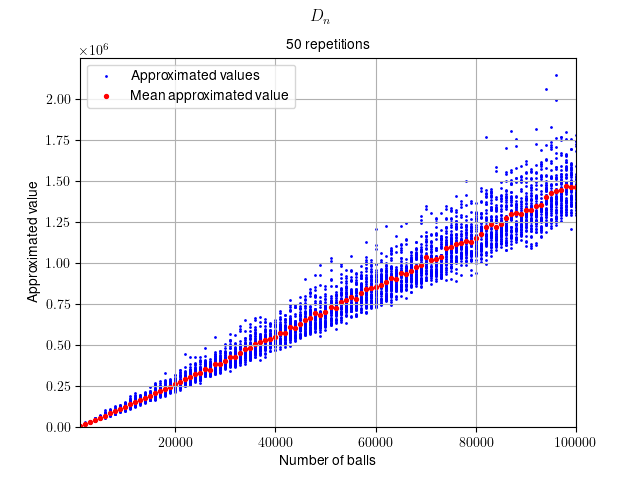
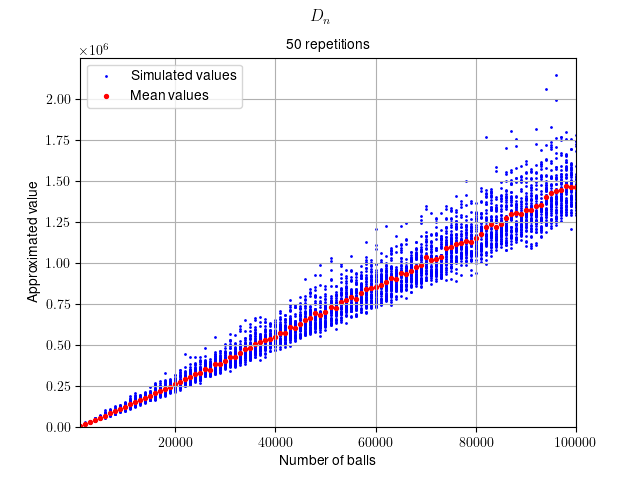
mpis hw2

Changed region(s): [[0.1875, 0.125, 0.4688, 0.2188]]

diff --git a/3rdSemester/mpis/hw2/main.py b/3rdSemester/mpis/hw2/main.py
@@ -12,8 +12,8 @@ def makegraph(fileName: str, n: List[int], y: List[float], avgN: List[int], avgY
     plt.grid(True)
     plt.margins(0, 0)
     plt.ylim(bottom=0, top=(1.05*max(y)))
-    plt.scatter(n, y, c='b', s=1, label="Approximated values")
-    plt.scatter(avgN, avgY, c='r', s=8, label="Mean approximated value")
+    plt.scatter(n, y, c='b', s=1, label="Simulated values")
+    plt.scatter(avgN, avgY, c='r', s=8, label="Mean values")
     plt.ticklabel_format(axis='y', style='scientific', scilimits=[-5, 5], useMathText=True)
     plt.xlabel("Number of balls")
     plt.ylabel('Approximated value')
@@ -27,7 +27,7 @@ def makegraph_simple(fileName: str, n: List[int], y: List[float], title: str) ->
     plt.grid(True)
     plt.margins(0, 0)
     plt.ylim(bottom=0, top=(1.05*max(y)))
-    plt.scatter(n, y, c='b', s=8, label="Approximated values")
+    plt.scatter(n, y, c='b', s=8, label="Mean values")
     plt.xlabel("n")
     plt.ylabel('Value')
     plt.suptitle(title, fontsize=20)
